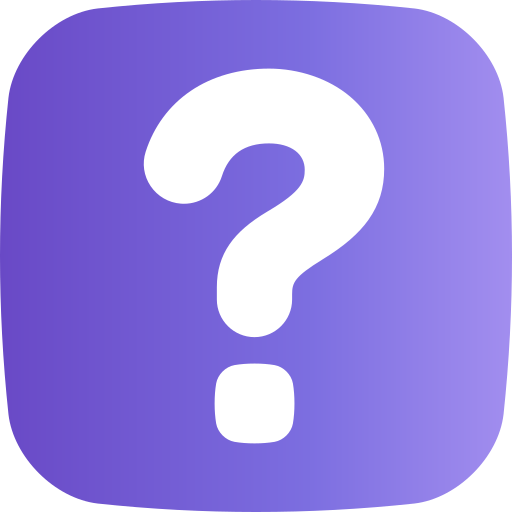
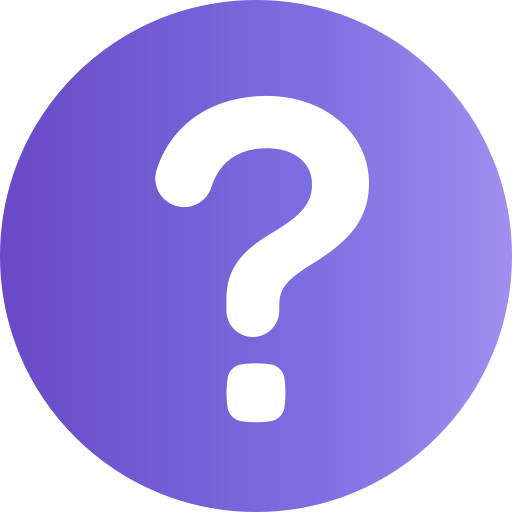
slight ui tweak for home page

diff --git a/src/ui/pages/home_page.py b/src/ui/pages/home_page.py
@@ -16,7 +16,7 @@ from src.ui.shared_globals import (
     title_font, menu_font, footer_font, screen,
     BUTTON_BASE_LEFT, BUTTON_BASE_RIGHT,
     BUTTON_HOVER_LEFT, BUTTON_HOVER_RIGHT,
-    dark_gradients
+    dark_gradients, help_icon, scores_icon
 )
 
 from src.utils.config import load_config, save_config
@@ -82,20 +82,15 @@ def home_page():
             "rect": pygame.Rect(SCREEN_WIDTH//2 - 200, 600, 400, 60)}
     ]
     
-    # Create UI elements
-    scores_button = pygame.Rect(20, 20, 120, 40)
-    music_rect = pygame.Rect(SCREEN_WIDTH - 60, 20, 40, 40)
-    
+    # UI elements - increased from 48 to 56
+    music_rect = pygame.Rect(SCREEN_WIDTH - 76, 20, 56, 56)  # Keep music icon position 
+    scores_button = pygame.Rect(SCREEN_WIDTH - 152, 20, 56, 56)  # To the left of music
+    help_button = pygame.Rect(SCREEN_WIDTH - 228, 20, 56, 56)  # To the left of scores
+
     # Help button - define once outside the loop with correct size
     help_button_size = 50  # Larger size for better visibility 
-    help_button = pygame.Rect(20, SCREEN_HEIGHT - 70, help_button_size, help_button_size)
     help_color = (80, 100, 180)
     help_hover = (120, 140, 220)
-    
-    # Pre-render help button elements
-    question_text = menu_font.render("?", True, WHITE)  # Changed from green to white to match scores text
-    help_shadow = pygame.Surface((help_button_size, help_button_size), pygame.SRCALPHA)
-    help_shadow.fill((0, 0, 0, 30))
     
     # Initialize particles
     particles = [Particle() for _ in range(80)]
@@ -119,11 +114,6 @@ def home_page():
     button_surfaces = [None] * len(buttons)
     shadow_surfaces = [None] * len(buttons)
     
-    # Pre-render scores button
-    scores_text = footer_font.render("Scores", True, WHITE)
-    scores_shadow = pygame.Surface((scores_button.width, scores_button.height), pygame.SRCALPHA)
-    scores_shadow.fill((0, 0, 0, 30))
-    
     # Main loop
     while True:
         mouse_pos = pygame.mouse.get_pos()
@@ -140,26 +130,7 @@ def home_page():
         title_text = "AI Serpentis"
         title_x = (SCREEN_WIDTH - title_font.size(title_text)[0]) // 2
         glowing_text(screen, title_text, title_font, title_x, 80, YELLOW, step)
-        
-        # Draw high scores button with less processing every frame
-        scores_surface = pygame.Surface((scores_button.width, scores_button.height), pygame.SRCALPHA)
-        scores_color = (60, 90, 150) if scores_button.collidepoint(mouse_pos) else (40, 60, 100)
-        pygame.draw.rect(scores_surface, scores_color, 
-                    (0, 0, scores_button.width, scores_button.height), border_radius=6)
-        
-        # Add a slight shadow using pre-rendered shadow
-        screen.blit(scores_shadow, (scores_button.x + 2, scores_button.y + 2))
-        screen.blit(scores_surface, scores_button)
-        
-        # Add pulsing glow effect
-        glow_width = int(abs(math.sin(step / 15)) * 2) + 1
-        glow_rect = scores_button.inflate(4, 4)
-        pygame.draw.rect(screen, (80, 120, 200), glow_rect, glow_width, border_radius=6)
-        
-        # Center the text
-        text_rect = scores_text.get_rect(center=scores_button.center)
-        screen.blit(scores_text, text_rect)
-        
+                
         # Draw main menu buttons
         for i, button in enumerate(buttons):
             rect = button["rect"]
@@ -206,32 +177,36 @@ def home_page():
             text_rect = button_labels[i].get_rect(center=rect.center)
             screen.blit(button_labels[i], text_rect)
         
-        # Draw music toggle icon
-        screen.blit(music_on_icon if music_on else music_off_icon, music_rect.topleft)
+        # Draw scores button - center the icon in the button rect
+        scores_icon_rect = scores_icon.get_rect(center=scores_button.center)
+        screen.blit(scores_icon, scores_icon_rect)
+        if scores_button.collidepoint(mouse_pos):
+            # Add glow effect on hover - adjusted for 52x52 icons
+            glow_rect = scores_button.inflate(8, 8)
+            glow_width = int(abs(math.sin(step / 15)) * 2) + 1
+            pygame.draw.rect(screen, (80, 120, 200), glow_rect, glow_width, border_radius=7)
+
+        # Draw help button - center the icon in the button rect 
+        help_icon_rect = help_icon.get_rect(center=help_button.center)
+        screen.blit(help_icon, help_icon_rect)
+        if help_button.collidepoint(mouse_pos):
+            # Add glow effect on hover - adjusted for 52x52 icons
+            glow_rect = help_button.inflate(8, 8)
+            glow_width = int(abs(math.sin(step / 15)) * 2) + 1
+            pygame.draw.rect(screen, (80, 120, 200), glow_rect, glow_width, border_radius=7)
+
+        # Draw music toggle icon - center the icon in the button rect
+        music_icon = music_on_icon if music_on else music_off_icon
+        music_icon_rect = music_icon.get_rect(center=music_rect.center)
+        screen.blit(music_icon, music_icon_rect)
+        if music_rect.collidepoint(mouse_pos):
+            # Add glow effect on hover - adjusted for 52x52 icons
+            glow_rect = music_rect.inflate(8, 8)
+            glow_width = int(abs(math.sin(step / 15)) * 2) + 1
+            pygame.draw.rect(screen, (80, 120, 200), glow_rect, glow_width, border_radius=7)
         
         # Draw footer
         screen.blit(footer_surf, footer_rect)
-        
-        # Draw help button with improved animation (same style as scores button)
-        help_surface = pygame.Surface((help_button.width, help_button.height), pygame.SRCALPHA)
-        
-        # Change color based on hover state (same as scores button)
-        current_help_color = help_hover if help_button.collidepoint(mouse_pos) else help_color
-        pygame.draw.rect(help_surface, current_help_color, 
-                    (0, 0, help_button.width, help_button.height), border_radius=20)
-        
-        # Add shadow for depth
-        screen.blit(help_shadow, (help_button.x + 2, help_button.y + 2))
-        screen.blit(help_surface, help_button)
-        
-        # Add pulsing glow effect like scores button
-        help_glow_width = int(abs(math.sin(step / 15)) * 2) + 1  # Reduced from (3)+2 to (2)+1
-        help_glow_rect = help_button.inflate(4, 4)  # Reduced from (8,8) to (4,4)
-        pygame.draw.rect(screen, (80, 120, 200), help_glow_rect, help_glow_width, border_radius=20)
-        
-        # Center the question mark in the button
-        question_rect = question_text.get_rect(center=help_button.center)
-        screen.blit(question_text, question_rect)
         
         pygame.display.update()
         

diff --git a/src/ui/shared_globals.py b/src/ui/shared_globals.py
@@ -33,6 +33,8 @@ click_sound = None
 music_loaded = False
 music_on_icon = None
 music_off_icon = None
+help_icon = None
+scores_icon = None
 current_gradient = 0
 next_gradient = 1
 gradient_blend = 0.0
@@ -61,6 +63,7 @@ def init_globals():
     """Initialize global variables that require pygame to be initialized"""
     global title_font, menu_font, footer_font, screen
     global music_on_icon, music_off_icon, click_sound, music_loaded
+    global help_icon, scores_icon
     
     # Initialize screen
     screen = pygame.display.set_mode((SCREEN_WIDTH, SCREEN_HEIGHT))
@@ -85,22 +88,50 @@ def init_globals():
     try:
         pygame.mixer.init()
         
+        # Define target size for all icons
+        ICON_SIZE = (52, 52)  # Larger size for better quality with high-res icons
+        
         # Check if files exist before loading
         music_on_path = get_asset_path("assets/images/music_on.png")
         music_off_path = get_asset_path("assets/images/music_off.png")
+        help_icon_path = get_asset_path("assets/images/help_icon.png")
+        scores_icon_path = get_asset_path("assets/images/high_score.png")
         
+        # Load and scale music icons
         if os.path.exists(music_on_path) and os.path.exists(music_off_path):
             music_on_icon = pygame.image.load(music_on_path)
             music_off_icon = pygame.image.load(music_off_path)
-            music_on_icon = pygame.transform.scale(music_on_icon, (40, 40))
-            music_off_icon = pygame.transform.scale(music_off_icon, (40, 40))
+            # Scale directly to final size, skipping intermediate transformations
+            music_on_icon = scale_preserving_aspect_ratio(music_on_icon, ICON_SIZE)
+            music_off_icon = scale_preserving_aspect_ratio(music_off_icon, ICON_SIZE)
         else:
             # Create fallback icons
             print("Warning: Music icon images not found. Using fallback.")
-            music_on_icon = pygame.Surface((40, 40))
-            music_off_icon = pygame.Surface((40, 40))
-            music_on_icon.fill((0, 200, 0))  # Green
-            music_off_icon.fill((200, 0, 0))  # Red
+            music_on_icon = pygame.Surface(ICON_SIZE, pygame.SRCALPHA)
+            music_off_icon = pygame.Surface(ICON_SIZE, pygame.SRCALPHA)
+            pygame.draw.circle(music_on_icon, (0, 200, 0), (ICON_SIZE[0]//2, ICON_SIZE[1]//2), ICON_SIZE[0]//2)
+            pygame.draw.circle(music_off_icon, (200, 0, 0), (ICON_SIZE[0]//2, ICON_SIZE[1]//2), ICON_SIZE[0]//2)
+        
+        # Load and scale help and scores icons
+        if os.path.exists(help_icon_path) and os.path.exists(scores_icon_path):
+            help_icon = pygame.image.load(help_icon_path)
+            scores_icon = pygame.image.load(scores_icon_path)
+            # Scale directly to final size
+            help_icon = scale_preserving_aspect_ratio(help_icon, ICON_SIZE)
+            scores_icon = scale_preserving_aspect_ratio(scores_icon, ICON_SIZE)
+        else:
+            print("Warning: Help or scores icon images not found. Using fallback.")
+            help_icon = pygame.Surface(ICON_SIZE, pygame.SRCALPHA)
+            scores_icon = pygame.Surface(ICON_SIZE, pygame.SRCALPHA)
+            # Draw circular fallbacks for better appearance
+            pygame.draw.circle(help_icon, (0, 150, 250), (ICON_SIZE[0]//2, ICON_SIZE[1]//2), ICON_SIZE[0]//2)
+            pygame.draw.circle(scores_icon, (250, 150, 0), (ICON_SIZE[0]//2, ICON_SIZE[1]//2), ICON_SIZE[0]//2)
+            
+            # Add "?" text to help icon
+            temp_font = pygame.font.SysFont("Arial", ICON_SIZE[0]//2)
+            text_surf = temp_font.render("?", True, (255, 255, 255))
+            text_rect = text_surf.get_rect(center=(ICON_SIZE[0]//2, ICON_SIZE[1]//2))
+            help_icon.blit(text_surf, text_rect)
         
         # Use sound_manager's proxy instead of direct sound
         class ClickSoundProxy:
@@ -117,6 +148,11 @@ def init_globals():
         music_off_icon = pygame.Surface((40, 40))
         music_on_icon.fill((0, 200, 0))  # Green
         music_off_icon.fill((200, 0, 0))  # Red
+        
+        help_icon = pygame.Surface((56, 56))
+        scores_icon = pygame.Surface((56, 56))
+        help_icon.fill((0, 150, 250))  # Blue for help
+        scores_icon.fill((250, 150, 0))  # Orange for scores
         
         # Create dummy sound objects
         click_sound = None
@@ -135,3 +171,44 @@ def update_theme(theme):
     global background_theme
     background_theme = theme
     print(f"Theme updated to: {theme}")  # Add logging to verify function execution
+
+def scale_preserving_aspect_ratio(image, target_size):
+    """
+    Scale an image to fit within target_size while preserving aspect ratio.
+    
+    Args:
+        image: The Pygame surface to scale
+        target_size: Tuple of (width, height) - the maximum dimensions
+        
+    Returns:
+        Scaled image centered within target size bounds
+    """
+    if image is None:
+        return None
+        
+    # Get original dimensions
+    orig_width, orig_height = image.get_size()
+    
+    # Calculate scaling factor to fit within target size
+    scale_width = target_size[0] / orig_width
+    scale_height = target_size[1] / orig_height
+    scale_factor = min(scale_width, scale_height)
+    
+    # Calculate new dimensions
+    new_width = int(orig_width * scale_factor)
+    new_height = int(orig_height * scale_factor)
+    
+    # Scale the image
+    scaled_image = pygame.transform.smoothscale(image, (new_width, new_height))
+    
+    # Create a surface of the target size with transparency
+    result_surface = pygame.Surface(target_size, pygame.SRCALPHA)
+    
+    # Calculate position to center the scaled image
+    x_offset = (target_size[0] - new_width) // 2
+    y_offset = (target_size[1] - new_height) // 2
+    
+    # Blit the scaled image onto the result surface
+    result_surface.blit(scaled_image, (x_offset, y_offset))
+    
+    return result_surface
